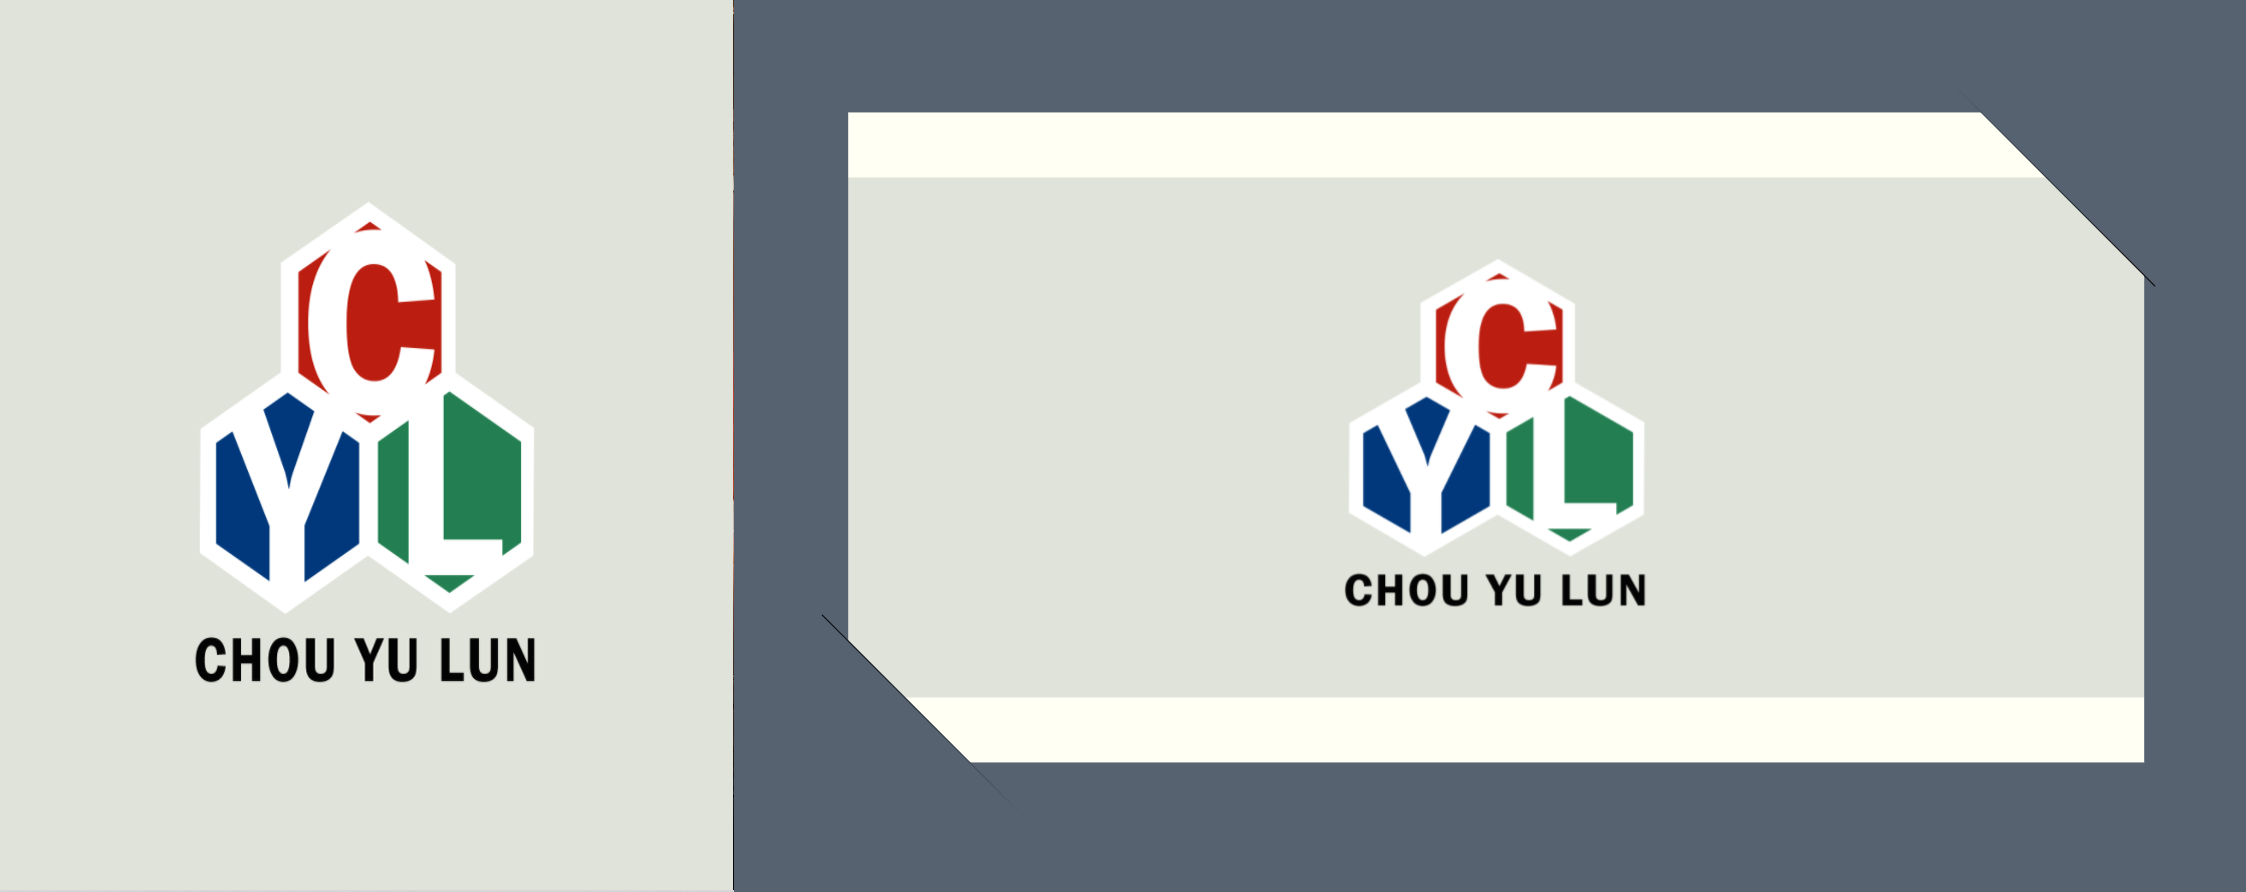
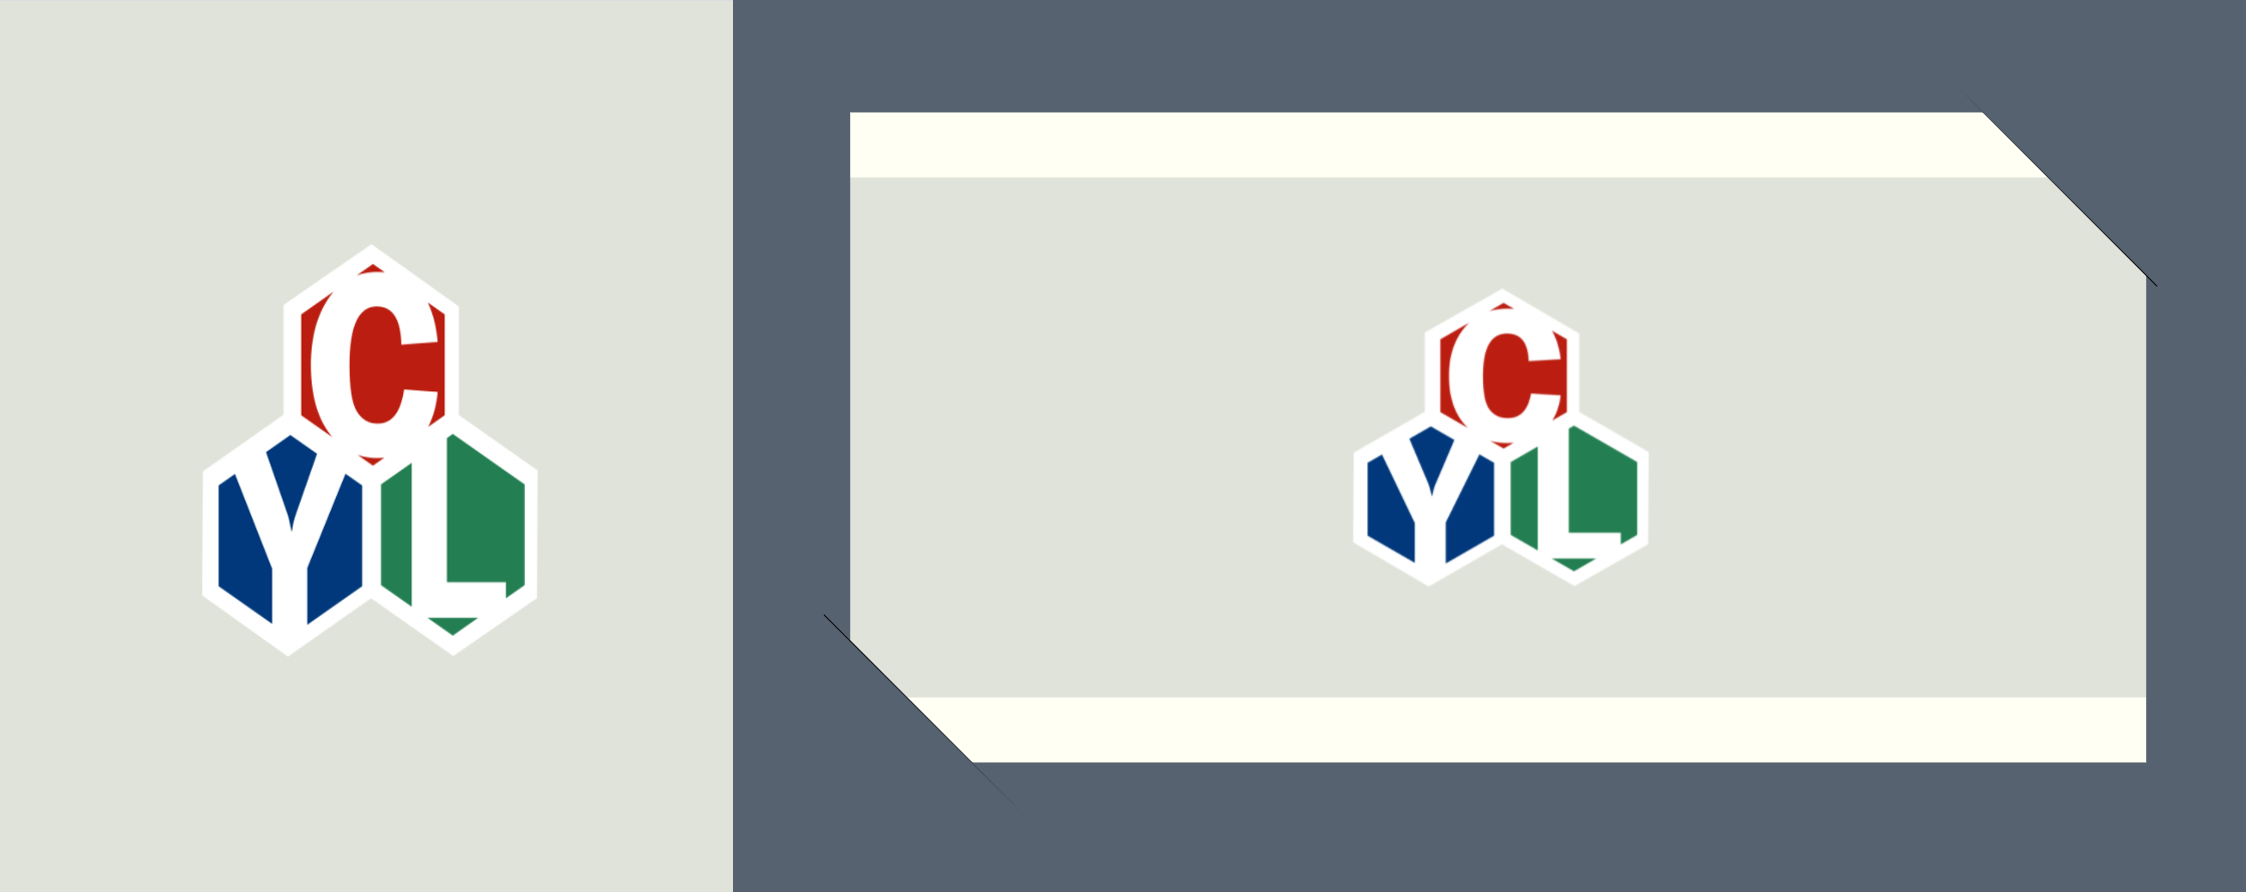
change image

Changed region(s): [[0.0623, 0.2119, 0.2493, 0.787], [0.5922, 0.2724, 0.748, 0.6962]]

diff --git a/index.html b/index.html
@@ -47,7 +47,7 @@
             </div>
             <div class="border-secondary back">
                 <div class="tb_line"></div>
-                <div class="bgc blogo"><img src="images/logowname.png"></div>
+                <div class="bgc blogo"><img src="images/logo.png"></div>
                 <div class="tb_line"></div>
             </div>
         </div>
@@ -82,7 +82,7 @@
                 </div>
             </div>
             <div class="back-md">
-                <div class="bgc-md logo" style="height: 100%;"><img src="images/logowname.png"></div>
+                <div class="bgc-md logo" style="height: 100%;"><img src="images/logo.png"></div>
             </div>
         </div>
     </div>
